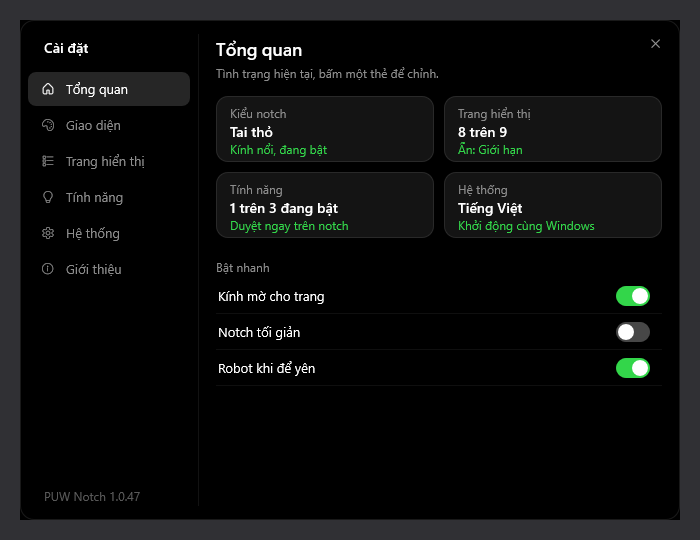
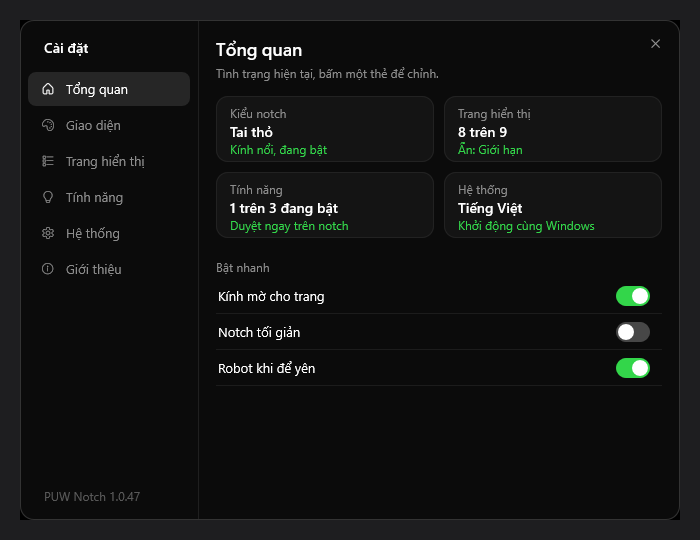
fix(settings): draw the window edge, the sidebar divider and the row lines as clearly as in the mock

diff --git a/src/render/settings_page.rs b/src/render/settings_page.rs
@@ -44,9 +44,9 @@ impl Renderer {
             rt.BeginDraw();
             rt.Clear(Some(&color(0.0, 0.0, 0.0, 0.0)));
             let window = rect(0.0, 0.0, w as f32, h as f32);
-            fill(window, 14.0 * s, grey(0.0, 1.0))?;
-            outline(window, 14.0 * s, grey(1.0, 0.10))?;
-            rt.FillRectangle(&rect(NAV_W * s, 14.0 * s, NAV_W * s + 1.0, (HEIGHT - 14.0) * s), &self.brush(grey(1.0, 0.07))?);
+            fill(window, 14.0 * s, grey(0.043, 1.0))?;
+            outline(window, 14.0 * s, grey(0.2, 1.0))?;
+            rt.FillRectangle(&rect(NAV_W * s, 1.0 * s, NAV_W * s + 1.0, (HEIGHT - 1.0) * s), &self.brush(grey(0.12, 1.0))?);
 
             text(crate::i18n::tr("Cài đặt", "Settings"), F_TITLE, rect(24.0 * s, 14.0 * s, (NAV_W - 8.0) * s, 40.0 * s), lead, grey(1.0, 1.0))?;
             for (section, q) in nav_rects() {
@@ -80,7 +80,7 @@ impl Renderer {
                     Item::Card { title, value, note, go } => {
                         let over = hot(Action::Go(*go));
                         fill(q, 12.0 * s, grey(if over { 0.11 } else { 0.08 }, 1.0))?;
-                        outline(q, 12.0 * s, grey(1.0, if over { 0.16 } else { 0.09 }))?;
+                        outline(q, 12.0 * s, grey(if over { 0.26 } else { 0.135 }, 1.0))?;
                         let x = q.left + 14.0 * s;
                         text(title, F_LABEL, rect(x, q.top + 9.0 * s, q.right - 10.0 * s, q.top + 25.0 * s), lead, grey(0.55, 1.0))?;
                         text(value, F_TITLE, rect(x, q.top + 25.0 * s, q.right - 10.0 * s, q.top + 46.0 * s), lead, grey(1.0, 1.0))?;
@@ -90,7 +90,7 @@ impl Renderer {
                         if hot(*action) {
                             fill(q, 8.0 * s, grey(0.08, 1.0))?;
                         }
-                        rt.FillRectangle(&rect(q.left, q.bottom - 1.0, q.right, q.bottom), &self.brush(grey(1.0, 0.06))?);
+                        rt.FillRectangle(&rect(q.left, q.bottom - 1.0, q.right, q.bottom), &self.brush(grey(0.11, 1.0))?);
                         let track = rect(q.right - 12.0 * s - 34.0 * s, (q.top + q.bottom) / 2.0 - 10.0 * s, q.right - 12.0 * s, (q.top + q.bottom) / 2.0 + 10.0 * s);
                         let text_right = track.left - 12.0 * s;
                         match note {
@@ -105,7 +105,7 @@ impl Renderer {
                         rt.FillEllipse(&D2D1_ELLIPSE { point: Vector2 { X: knob_x, Y: (track.top + track.bottom) / 2.0 }, radiusX: 8.0 * s, radiusY: 8.0 * s }, &self.brush(grey(1.0, 1.0))?);
                     }
                     Item::Choice { label, options } => {
-                        rt.FillRectangle(&rect(q.left, q.bottom - 1.0, q.right, q.bottom), &self.brush(grey(1.0, 0.06))?);
+                        rt.FillRectangle(&rect(q.left, q.bottom - 1.0, q.right, q.bottom), &self.brush(grey(0.11, 1.0))?);
                         let (first, last) = (scaled(p.targets[0].0, s), scaled(p.targets[p.targets.len() - 1].0, s));
                         let holder = rect(first.left - 2.0 * s, first.top - 2.0 * s, last.right + 2.0 * s, last.bottom + 2.0 * s);
                         text(label, F_BODY, rect(q.left + 2.0 * s, q.top, holder.left - 12.0 * s, q.bottom), lead, grey(1.0, 1.0))?;
@@ -134,7 +134,7 @@ impl Renderer {
                         text(label, F_LABEL, q, center, if *on { grey(1.0, 1.0) } else if over { grey(0.85, 1.0) } else { grey(0.6, 1.0) })?;
                     }
                     Item::Button { label, button, action } => {
-                        rt.FillRectangle(&rect(q.left, q.bottom - 1.0, q.right, q.bottom), &self.brush(grey(1.0, 0.06))?);
+                        rt.FillRectangle(&rect(q.left, q.bottom - 1.0, q.right, q.bottom), &self.brush(grey(0.11, 1.0))?);
                         let b = scaled(p.targets[0].0, s);
                         text(label, F_BODY, rect(q.left + 2.0 * s, q.top, b.left - 12.0 * s, q.bottom), lead, grey(1.0, 1.0))?;
                         let radius = (b.bottom - b.top) / 2.0;
